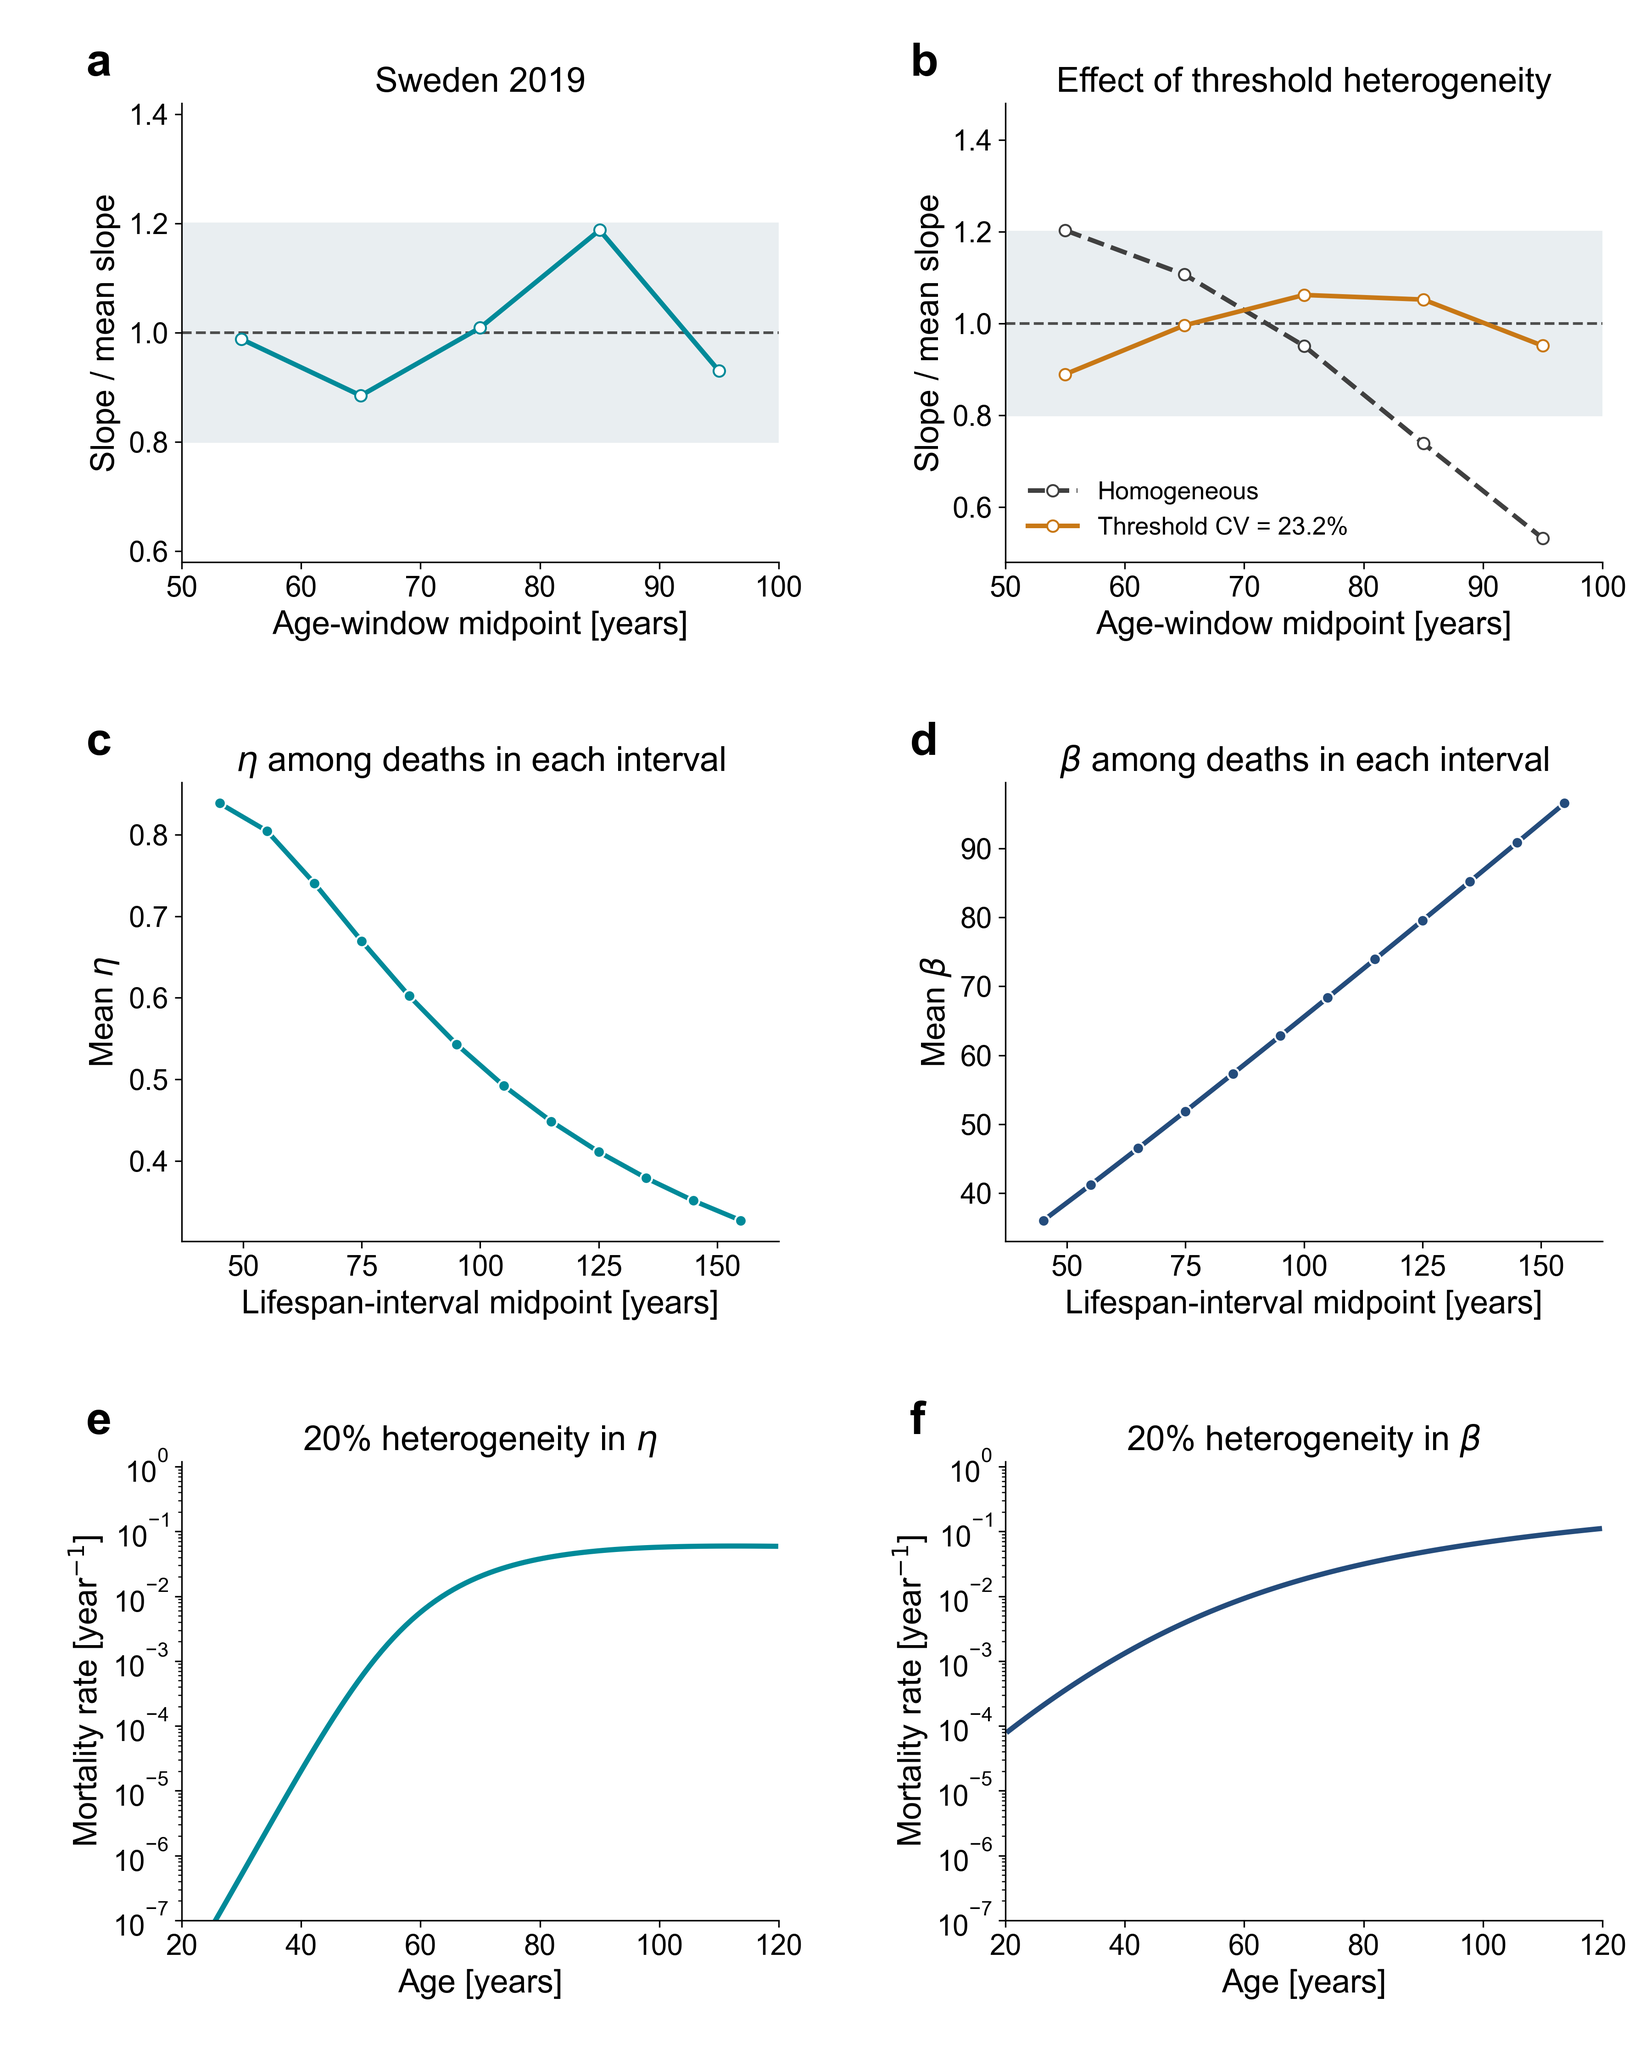
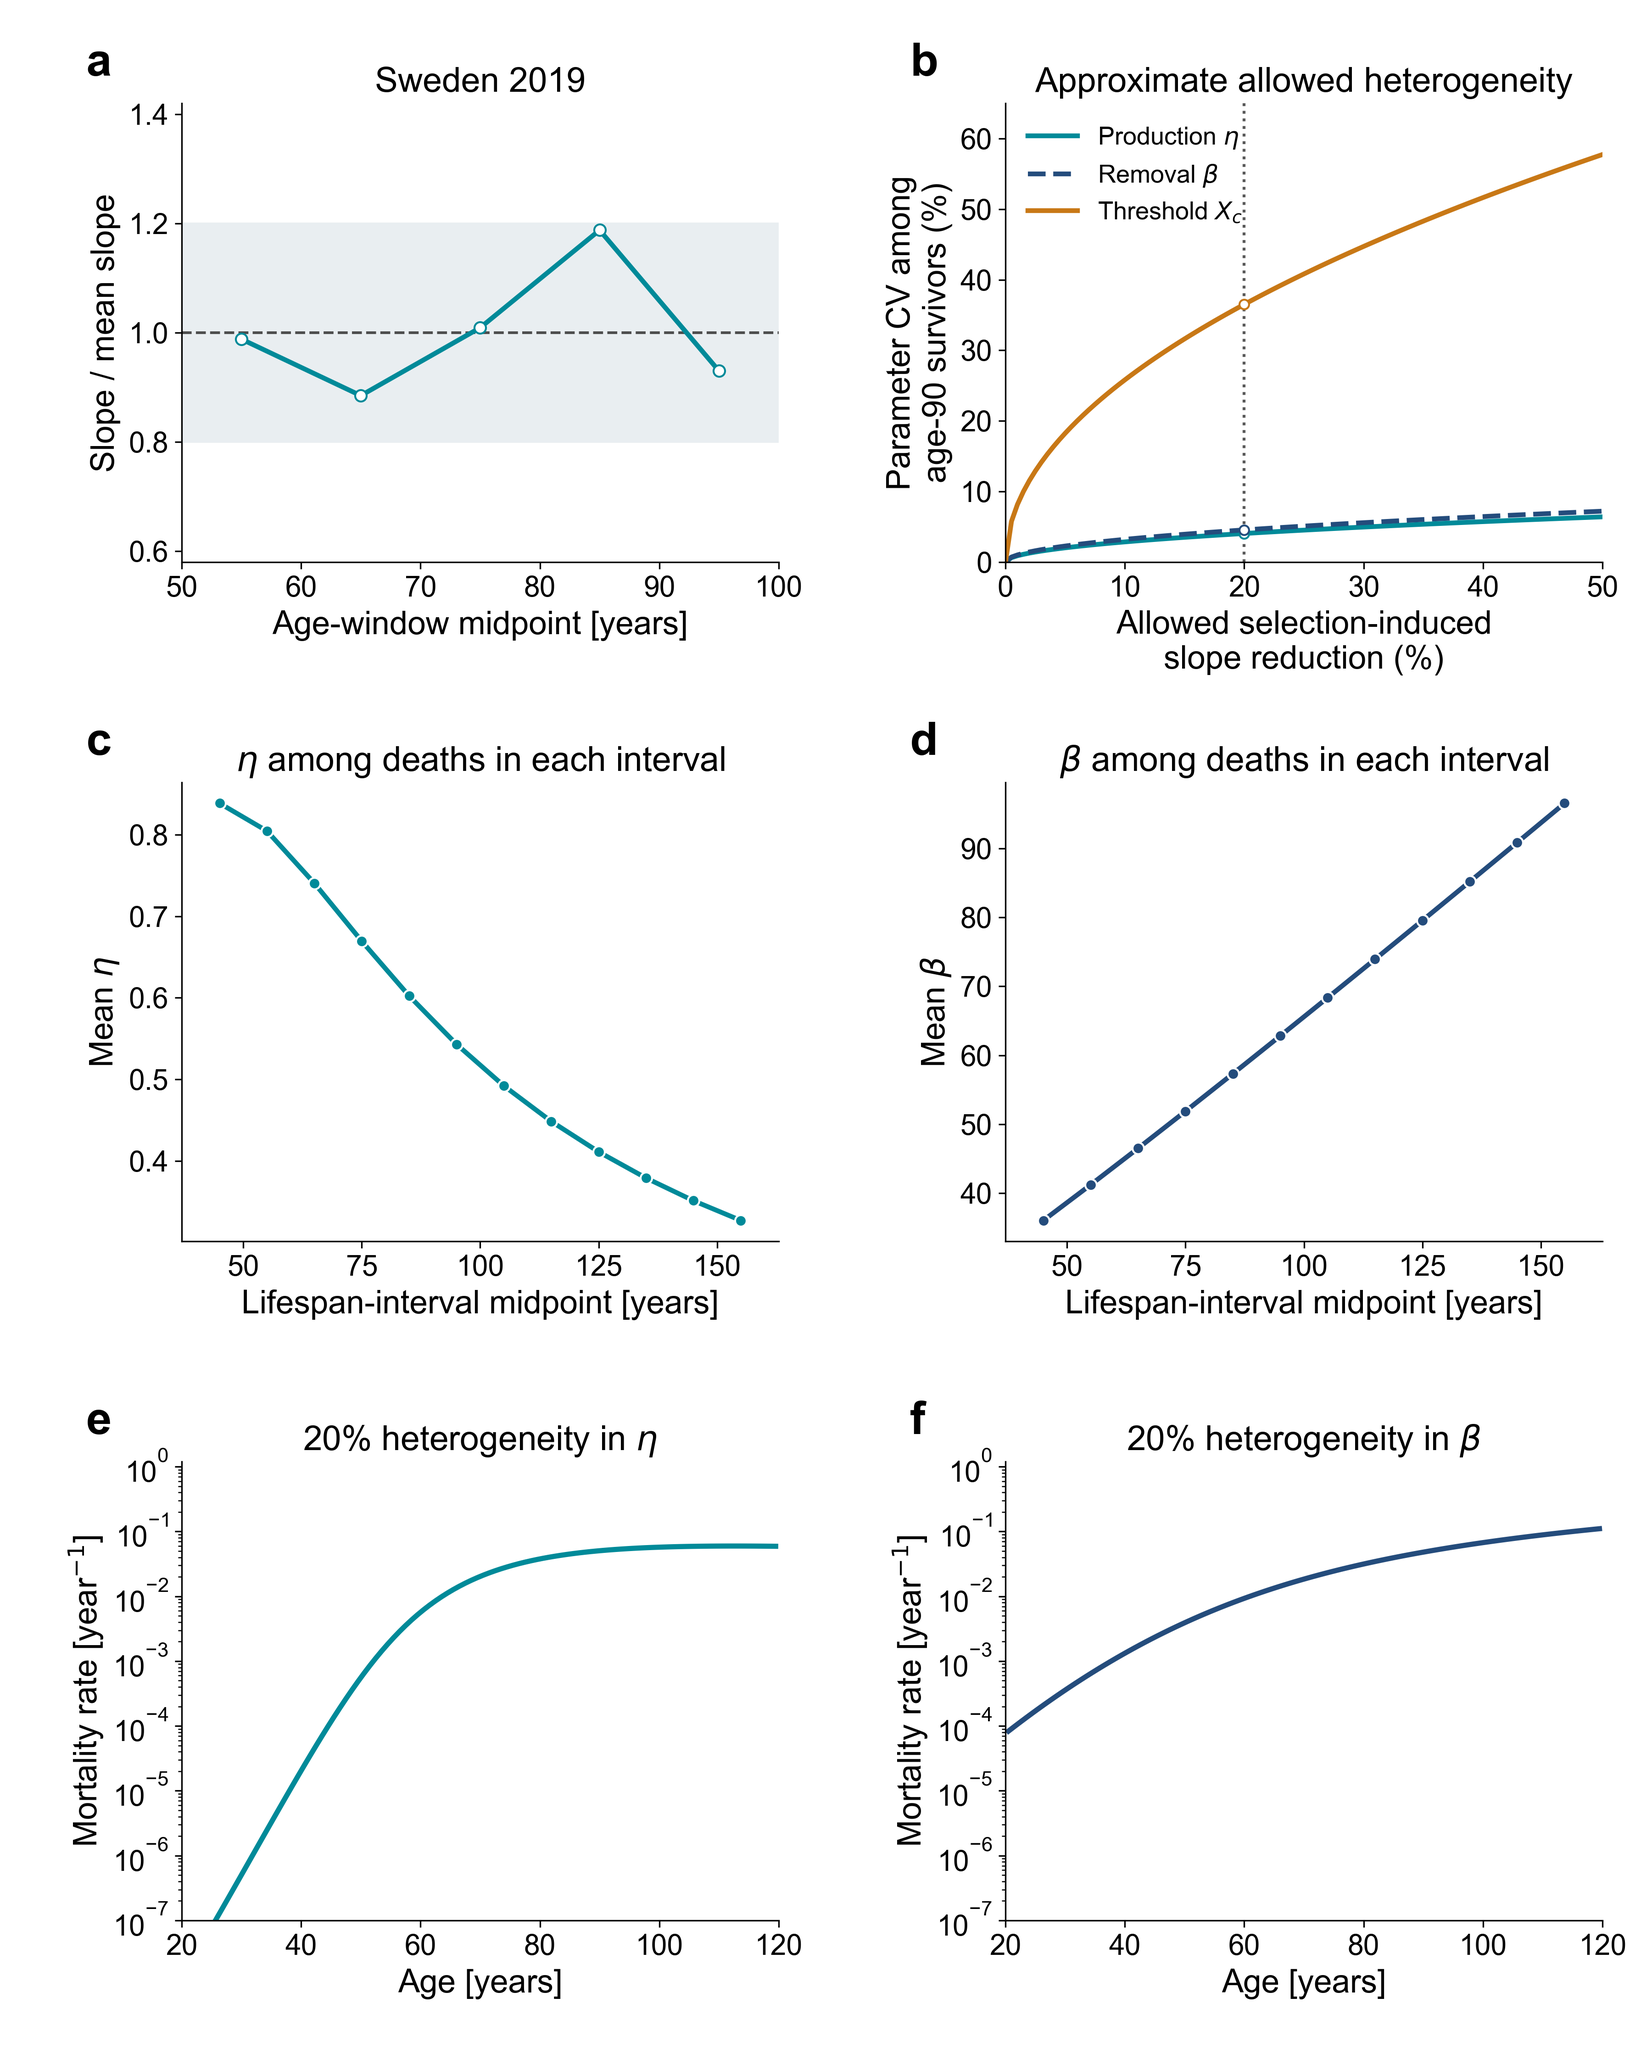
Restore SI heterogeneity tolerance panel and reproducible source table

diff --git a/analysis/figures/supplementary/render_gompertz_constraints.py b/analysis/figures/supplementary/render_gompertz_constraints.py
@@ -1,4 +1,4 @@
-"""Current Supplementary Figure 1 from checked FP curves, without analytic bounds."""
+"""Supplementary Figure 1: observed slopes, local tolerance estimates and FP checks."""
 from pathlib import Path
 import numpy as np
 import pandas as pd
@@ -18,6 +18,7 @@ def main():
     curves = pd.read_csv(HERE/'si_hazards.csv').query("grid == 'refined'")
     means = pd.read_csv(HERE/'si_death_bin_means.csv')
     observed = pd.read_csv(ROOT/'results/tables/supplementary_figure1/sweden2019_decade_slopes.csv')
+    tolerance = pd.read_csv(HERE/'heterogeneity_tolerance.csv')
     fig, axs = plt.subplots(3,2,figsize=(12,15))
     fig.subplots_adjust(left=.11,right=.97,top=.95,bottom=.07,wspace=.38,hspace=.48)
     ax = axs[0,0]
@@ -26,15 +27,19 @@ def main():
     ax.plot(observed.age_mid,observed.slope_ratio_to_mean,'o-',color=COLORS['eta'],lw=2.5,mfc='white')
     ax.set(title='Sweden 2019',xlabel='Age-window midpoint [years]',ylabel='Slope / mean slope',ylim=(.58,1.42),xlim=(50,100))
     ax = axs[0,1]
-    ax.axhspan(.8,1.2,color='#E9EEF1')
-    ax.axhline(1,color='.3',ls='--',lw=1.4)
-    for scenario,color,ls,label in [('homogeneous','.25','--','Homogeneous'),('Xc',COLORS['threshold'],'-','Threshold CV = 23.2%')]:
-        c = curves[curves.scenario==scenario]
-        centers = np.array([55,65,75,85,95])
-        slopes = np.array([np.polyfit(c.age[abs(c.age-t)<5],np.log(c.mortality[abs(c.age-t)<5]),1)[0] for t in centers])
-        ax.plot(centers,slopes/slopes[:4].mean(),marker='o',ls=ls,color=color,lw=2.4,label=label,mfc='white')
-    ax.legend(frameon=False,loc='lower left')
-    ax.set(title='Effect of threshold heterogeneity',xlabel='Age-window midpoint [years]',ylabel='Slope / mean slope',ylim=(.48,1.48),xlim=(50,100))
+    ax.axvline(20,color='.35',ls=':',lw=1.5,zorder=0)
+    for key,color,ls,label in [('eta',COLORS['eta'],'-',r'Production $\eta$'),
+                              ('beta',COLORS['beta'],'--',r'Removal $\beta$'),
+                              ('Xc',COLORS['threshold'],'-',r'Threshold $X_c$')]:
+        ax.plot(100*tolerance.tolerance_fraction,100*tolerance[f'{key}_cv'],
+                ls=ls,color=color,lw=2.5,label=label)
+        at20 = tolerance.loc[np.isclose(tolerance.tolerance_fraction,.2),f'{key}_cv'].iloc[0]
+        ax.plot(20,100*at20,'o',color=color,mfc='white',ms=5,zorder=4)
+    ax.legend(frameon=False,loc='upper left')
+    ax.set(title='Approximate allowed heterogeneity',
+           xlabel='Allowed selection-induced\nslope reduction (%)',
+           ylabel='Parameter CV among\nage-90 survivors (%)',
+           ylim=(0,65),xlim=(0,50),xticks=np.arange(0,51,10),yticks=np.arange(0,61,10))
     for j,(name,symbol) in enumerate([('eta',r'$\eta$'),('beta',r'$\beta$')]):
         ax=axs[1,j]
         sub=means[means.parameter==name]

diff --git a/analysis/model_fits/supplementary/heterogeneity_tolerance.py b/analysis/model_fits/supplementary/heterogeneity_tolerance.py
@@ -1,0 +1,56 @@
+"""Local, survivor-conditioned heterogeneity estimates from SI section S4.
+
+These deterministic tolerance calculations are not fitted population bounds.
+All reference values are the illustrative values stated in S4, not a new fit.
+"""
+import json
+from pathlib import Path
+
+import numpy as np
+import pandas as pd
+
+ROOT = Path(__file__).resolve().parents[3]
+REFERENCE = dict(age=90.0, gompertz_slope=0.1, mortality=0.15, timescale=100.0)
+
+
+def tolerance_table(tolerances, *, age=90.0, gompertz_slope=0.1,
+                    mortality=0.15, timescale=100.0):
+    """Convert a selection-slope budget to one-parameter CVs among survivors.
+
+    The hazard-CV budget is sqrt(r*b/m). Local log-hazard sensitivities to
+    fractional parameter changes are b*T, 2-b*tau and b*(T-tau) for eta,
+    beta and Xc, respectively. The beta sensitivity retains its beta**2
+    prefactor. A zero sensitivity does not yield a finite first-order bound.
+    """
+    r = np.asarray(tolerances, dtype=float)
+    if np.any(~np.isfinite(r)) or np.any(r < 0):
+        raise ValueError('Tolerances must be finite and nonnegative')
+    if min(age, gompertz_slope, mortality, timescale) <= 0:
+        raise ValueError('Reference values must be positive')
+    sensitivities = dict(eta=gompertz_slope*age,
+                         beta=abs(2-gompertz_slope*timescale),
+                         Xc=gompertz_slope*abs(age-timescale))
+    if min(sensitivities.values()) == 0:
+        raise ValueError('A zero local sensitivity gives no finite CV estimate')
+    budget = np.sqrt(r*gompertz_slope/mortality)
+    return pd.DataFrame(dict(tolerance_fraction=r, hazard_cv=budget,
+                             **{f'{key}_cv': budget/value
+                                for key, value in sensitivities.items()}))
+
+
+def main():
+    out = ROOT/'results/supplementary1_fp'
+    tolerance_table(np.linspace(0, .5, 101), **REFERENCE).to_csv(
+        out/'heterogeneity_tolerance.csv', index=False)
+    settings = dict(reference=REFERENCE,
+        conditioning='Parameter distributions among survivors at age 90, not at birth',
+        criterion='Var_t(m)/m_pop <= r*b',
+        sensitivities=dict(eta='b*T', beta='abs(2-b*tau)', Xc='b*abs(T-tau)'),
+        beta_prefactor_retained=True,
+        interpretation='One-parameter, first-order local approximation; not a statistical confidence bound',
+        limitation='Large allowed CVs, particularly threshold CV, are rough local estimates')
+    (out/'heterogeneity_tolerance.json').write_text(json.dumps(settings, indent=2)+'\n')
+
+
+if __name__ == '__main__':
+    main()

diff --git a/tests/test_heterogeneity_tolerance.py b/tests/test_heterogeneity_tolerance.py
@@ -1,0 +1,26 @@
+"""Check the SI reference estimates and their interpretation as local budgets."""
+import unittest
+import numpy as np
+from analysis.model_fits.supplementary.heterogeneity_tolerance import tolerance_table
+
+
+class HeterogeneityToleranceTests(unittest.TestCase):
+    def test_si_reference_and_prefactor_correction(self):
+        row = tolerance_table([.2]).iloc[0]
+        self.assertAlmostEqual(row.eta_cv*100, 4.0572041297, places=8)
+        self.assertAlmostEqual(row.beta_cv*100, 4.5643546459, places=8)
+        self.assertAlmostEqual(row.Xc_cv*100, 36.5148371670, places=8)
+        # The corrected beta estimate exceeds the leading-barrier 3.65% value.
+        self.assertGreater(row.beta_cv, row.hazard_cv/10)
+
+    def test_budget_scaling_and_singular_reference(self):
+        rows = tolerance_table([0, .1, .2, .4])
+        cols = ['eta_cv','beta_cv','Xc_cv']
+        np.testing.assert_array_equal(rows.loc[0,cols].to_numpy(),np.zeros(3))
+        np.testing.assert_allclose(rows.loc[3,cols]/rows.loc[1,cols],2)
+        with self.assertRaises(ValueError):
+            tolerance_table([.2],timescale=90)
+
+
+if __name__ == '__main__':
+    unittest.main()

diff --git a/analysis/model_fits/supplementary/README.md b/analysis/model_fits/supplementary/README.md
@@ -2,7 +2,7 @@
 
 ## Gompertz constraints (Supplementary Fig. 1)
 
-The current renderer uses checked, saved finite-volume results:
+The renderer uses saved empirical slopes, analytic tolerance estimates and checked finite-volume results:
 
 ```bash
 python3 analysis/figures/supplementary/render_gompertz_constraints.py
@@ -20,9 +20,13 @@ weight multiplied by S_j(start)-S_j(end). The original display's minimum of
 25 observations per million is retained as a minimum bin probability 0.000025.
 
 Mortality is model boundary deaths divided by person-years within annual bins,
-shown at bin midpoints. No trajectory smoothing is required. The analytic-bound
-panel and universal asymptotic fits are retired. Empirical Sweden slopes are
-unchanged; the second panel now compares homogeneous and threshold-mixture slopes.
+shown at bin midpoints. No trajectory smoothing is required. Panel b shows the local tolerance calculation in SI section S4: parameter CV
+among age-90 survivors versus the allowed fractional selection-induced slope
+reduction. It varies one parameter at a time and retains the beta-squared
+prefactor correction. These are approximation-dependent tolerance estimates,
+not fitted initial-population limits or confidence intervals. The homogeneous
+and threshold-mixture curves remain saved numerical diagnostics, but are not
+plotted in panel b. Universal asymptotic fits remain omitted.
 
 The renderer generates the figure from the saved source tables.
 It is included in normal saved-output reproduction.
@@ -49,3 +53,9 @@ changes medians by 0.05 percentage points relative to 320 cells. See
 Subtracting marginal survival curves cannot recover the individual ratio
 distribution. The joint calculation is quadratic in time steps and is run
 separately from rendering.
+
+Regenerate the analytic source table (no simulation or optimization):
+
+```sh
+python3 analysis/model_fits/supplementary/heterogeneity_tolerance.py
+```

diff --git a/results/supplementary1_fp/README.md b/results/supplementary1_fp/README.md
@@ -1,4 +1,4 @@
-# Supplementary Figure 1: numerical comparisons
+# Supplementary Figure 1: tolerance estimates and numerical comparisons
 
 These saved calculations provide controlled comparisons at the fitted
 Sweden baseline means, not new fits or bootstrap estimates.
@@ -40,3 +40,32 @@ This writes to `tmp/si_checks`, not the archived results. The empirical
 Sweden slopes are read from
 `results/tables/supplementary_figure1/sweden2019_decade_slopes.csv`.
 The renderer generates the figure from the saved source tables.
+
+## Panel b: local heterogeneity tolerance
+
+`heterogeneity_tolerance.csv` and `.json` record the analytic curves and their
+reference settings. These use the illustrative SI values T = 90 years,
+b = 0.1/year, m(T) = 0.15/year and tau = 100 years. The x coordinate r is
+a stipulated budget for the selection contribution to the slope, not the
+observed variation of slopes between age windows in panel a.
+
+The hazard-CV budget is sqrt(r*b/m). Divide it by the absolute local
+log-hazard sensitivities b*T, 2-b*tau and b*(T-tau) to obtain allowed CVs
+for eta, beta and Xc, respectively. The beta curve includes the beta-squared
+prefactor in the simplified hazard. At r = 0.2, the estimates are 4.057%,
+4.564% and 36.515%. The leading-barrier beta estimate, which neglects the
+prefactor, is 3.651%; it is discussed in the SI but is not the plotted curve.
+
+All spreads are among survivors at age 90 and assume one varying parameter
+at a time. They are local, first-order approximations, not fitted limits on
+initial heterogeneity or confidence intervals. Large threshold-CV values
+are especially approximate. No epsilon curve is shown because the current
+S4 derivation gives explicit CV estimates for eta, beta and Xc only.
+
+Recompute the table with:
+
+```sh
+python3 analysis/model_fits/supplementary/heterogeneity_tolerance.py
+```
+
+Panels a and c-f use the same empirical and saved FP data as before.

diff --git a/docs/figure_methods/current_figure_inventory.md b/docs/figure_methods/current_figure_inventory.md
@@ -41,7 +41,7 @@ factors and AIC/bootstrap support.
 
 | Figure | Status and sources | Entry point |
 | --- | --- | --- |
-| 1 | Numerical constraints, fixed-mean threshold heterogeneity comparison, parameter means by death-lifespan bins and heterogeneous mortality. Saved production, quadrature and refined grids in `results/supplementary1_fp`. | Optional checks: `analysis/model_fits/supplementary/check_si.py --recompute`; renderer: `analysis/figures/supplementary/render_gompertz_constraints.py`. |
+| 1 | Empirical mortality slopes, local survivor-conditioned heterogeneity tolerance curves, parameter means by death-lifespan bins and heterogeneous mortality. Saved production, quadrature and refined grids in `results/supplementary1_fp`. | Optional checks: `analysis/model_fits/supplementary/check_si.py --recompute`; renderer: `analysis/figures/supplementary/render_gompertz_constraints.py`. |
 | 2 | Current cleaned-cohort delayed-entry KM curves; `results/nhanes/survival_curves.csv`. Early unsupported ages remain missing. | `analysis/figures/supplementary/render_nhanes_likelihood.py`; output `Figures/Supplementary/SuppFig2.png`. |
 | 3 | Saved FG survival/mortality; `results/tables/supp_figure3_fedichev_minimal_model_source.csv` and its recorded cache. | `analysis/figures/supplementary/make_supp_figure3_fedichev_minimal_model.py`; missing cache does not silently trigger simulation. |
 | 4 | Tagged joint onset/death FP calculation; `results/supplementary4_fp/` includes the adopted refined grid and coarser-grid checks. | Workers: `analysis/model_fits/supplementary/healthspan.py`; renderer: `analysis/figures/supplementary/make_supp_figure4_healthspan_morbidity.py`. |

diff --git a/README.md b/README.md
@@ -68,7 +68,7 @@ its source script and inputs.
 | Extended Data Fig. 2 | NHANES bootstrap AIC stability | `analysis/figures/extended_data/render_nhanes_aic.py` |
 | Extended Data Fig. 3 | Danish historical mortality and fitted robustness | Included in `analysis/figures/figure4/render_current_history.py` |
 | Extended Data Fig. 4 | Fedichev-Gruber parameter constraints | `analysis/figures/extended_data/render_fedichev_constraints.py` |
-| Supplementary Fig. 1 | Numerical Gompertz constraints and selection | Saved FP grid checks; `analysis/figures/supplementary/render_gompertz_constraints.py` |
+| Supplementary Fig. 1 | Gompertz slopes, heterogeneity tolerance and selection | Saved analytic tolerance table and FP grid checks; `analysis/figures/supplementary/render_gompertz_constraints.py` |
 | Supplementary Fig. 2 | Cleaned-cohort NHANES KM curves | `analysis/figures/supplementary/render_nhanes_likelihood.py` |
 | Supplementary Fig. 3 | Fedichev-Gruber survival and mortality | `analysis/figures/supplementary/make_supp_figure3_fedichev_minimal_model.py` |
 | Supplementary Fig. 4 | Disease onset and morbidity | `analysis/figures/supplementary/make_supp_figure4_healthspan_morbidity.py` |
